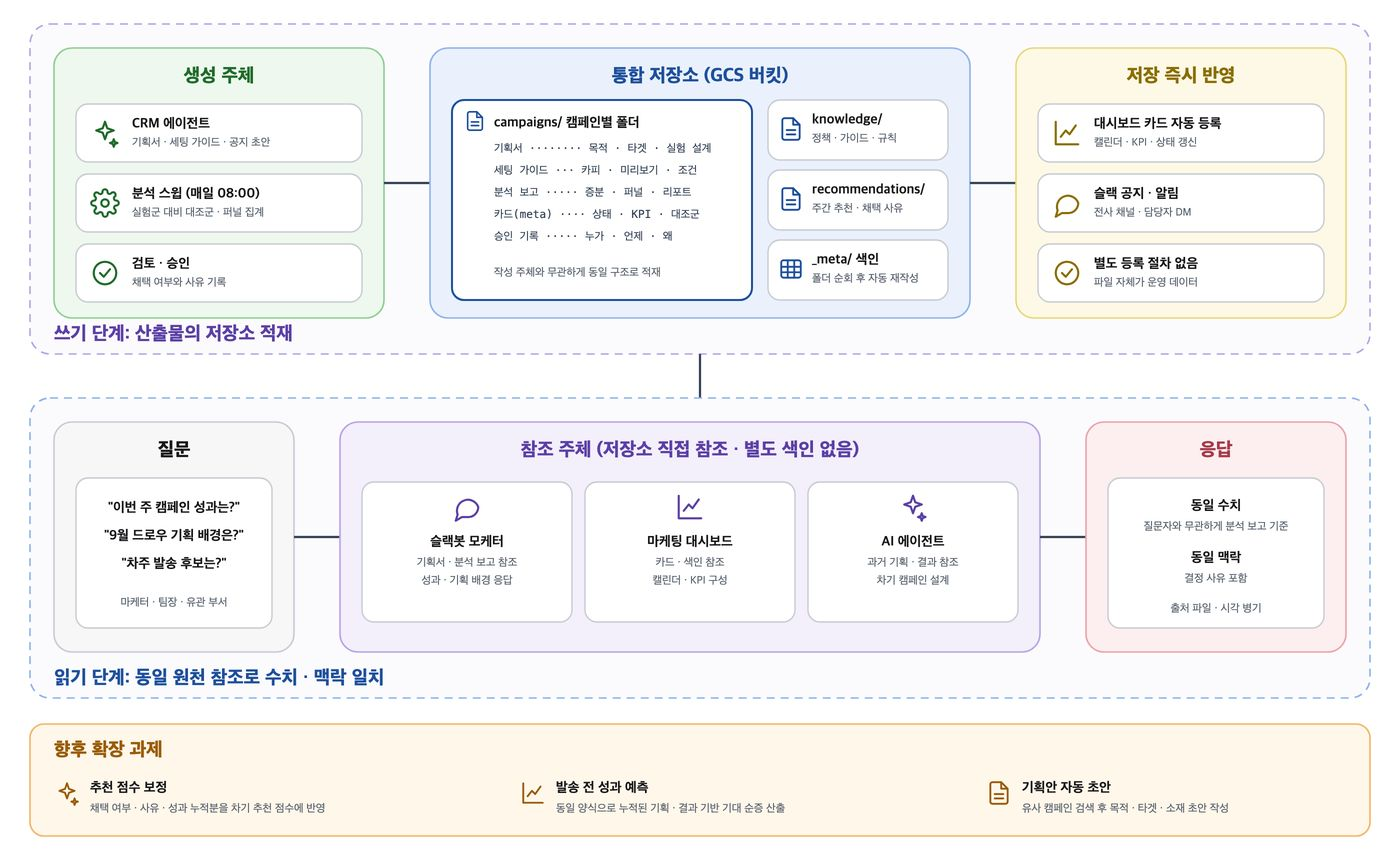
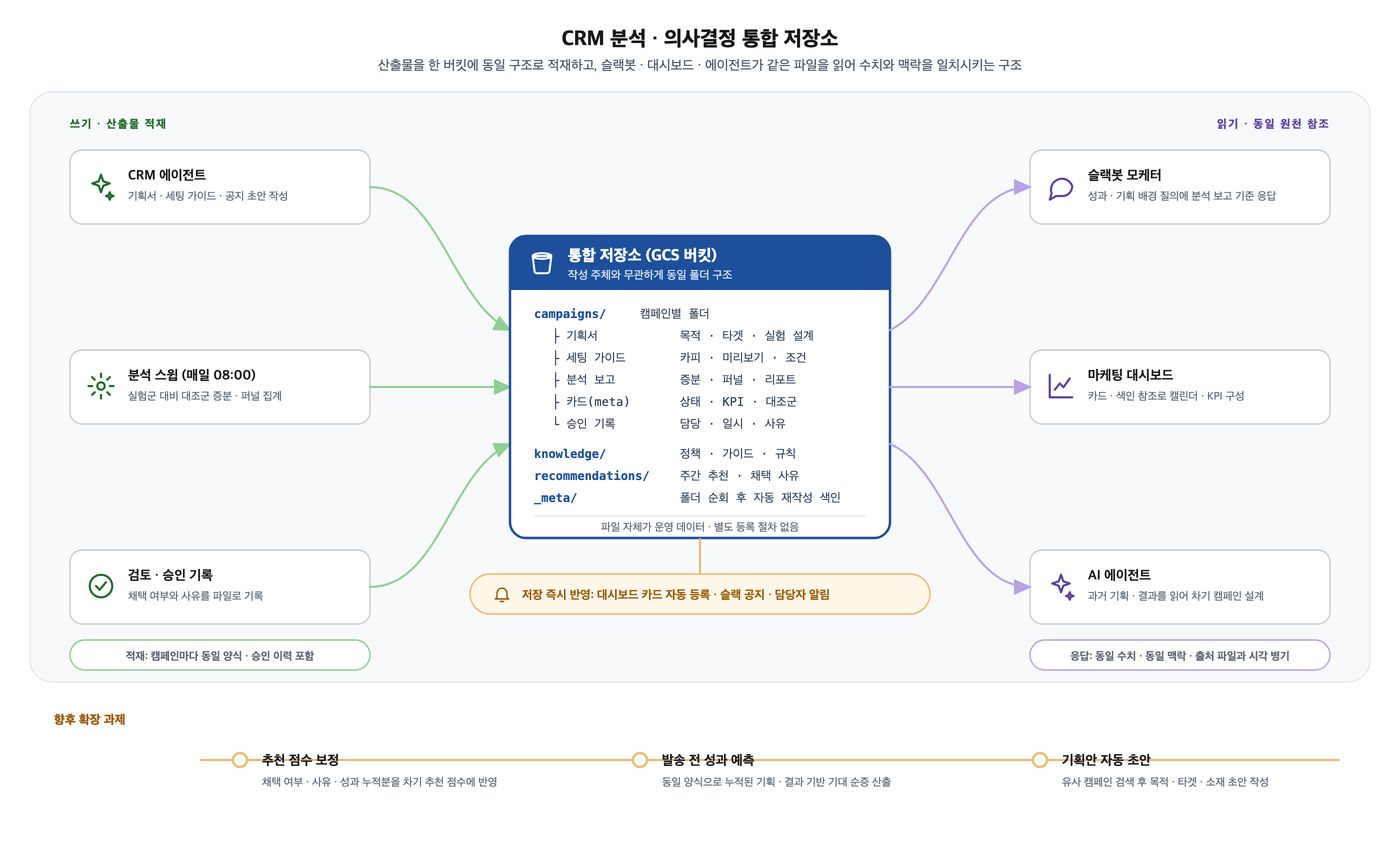
Center lead thumbnails, Tosspay card as monitoring dashboard only, hub-style storage figure, single adopted recommendation (Hangul Day) in dashboard

diff --git a/index.html b/index.html
@@ -208,7 +208,7 @@
 </div>
 <div class="viz-wrap">
   <button class="nav-btn" id="fn-decisionToggle" data-section="decision">데이터 분석 <span class="caret">&#9662;</span></button>
-  <div class="viz-dropdown" id="fn-decisionDropdown"><div class="vd-panel"><div class="vd-group">캠페인 효과 측정</div><a class="vd-item" data-target="dc-causal">인과추론 기반 본부 액션별 순효과 측정</a><a class="vd-item" data-target="dc-impact">고수요 외부이벤트 영향도 분석 표준</a><a class="vd-item" data-target="dc-moketer">대화형 슬랙봇 &#x27;모케터&#x27;</a><a class="vd-item" data-target="dc-dashboard">CRM 캠페인 대시보드 (마케팅 허브)</a><div class="vd-group">유저 행동 분석</div><a class="vd-item" data-target="project1a">미결제/결제 유저군 간 접속횟수 비교분석</a><a class="vd-item" data-target="project1b">미결제/결제 유저군 간 행동 데이터 비교분석</a><a class="vd-item" data-target="project1c">검색장소 인근 구매가능 주차장 분석</a><div class="vd-group">영업 관리 분석</div><a class="vd-item" data-target="project2a">영업관리 프로세스 구축</a><a class="vd-item" data-target="project2b">통합 데이터셋 구축 및 액션 매트릭스 수립</a><a class="vd-item" data-target="project2c">액션제안 및 모니터링 대시보드 제작</a><a class="vd-item" data-target="project2d">액션제안 대시보드 1차 고도화</a><a class="vd-item" data-target="project2e">액션제안 대시보드 2차 고도화</a><div class="vd-group">사업 기획 분석</div><a class="vd-item" data-target="project3a">첫결제 프로모션 쿠폰 최적 지급조건 설계</a><a class="vd-item" data-target="project3b">신규주차장 사업계획 달성 시나리오 도출</a><a class="vd-item" data-target="project3c">통계 기반 클릭/거래 이상치 탐지 및 원인 분석</a><a class="vd-item" data-target="dc-forecast">연휴 거래액·MAU 예측과 실적 검증</a><a class="vd-item" data-target="dc-tosspay">토스페이 도입 성과 측정과 결제 모니터링</a></div></div>
+  <div class="viz-dropdown" id="fn-decisionDropdown"><div class="vd-panel"><div class="vd-group">캠페인 효과 측정</div><a class="vd-item" data-target="dc-causal">인과추론 기반 본부 액션별 순효과 측정</a><a class="vd-item" data-target="dc-impact">고수요 외부이벤트 영향도 분석 표준</a><a class="vd-item" data-target="dc-moketer">대화형 슬랙봇 &#x27;모케터&#x27;</a><a class="vd-item" data-target="dc-dashboard">CRM 캠페인 대시보드 (마케팅 허브)</a><div class="vd-group">유저 행동 분석</div><a class="vd-item" data-target="project1a">미결제/결제 유저군 간 접속횟수 비교분석</a><a class="vd-item" data-target="project1b">미결제/결제 유저군 간 행동 데이터 비교분석</a><a class="vd-item" data-target="project1c">검색장소 인근 구매가능 주차장 분석</a><div class="vd-group">영업 관리 분석</div><a class="vd-item" data-target="project2a">영업관리 프로세스 구축</a><a class="vd-item" data-target="project2b">통합 데이터셋 구축 및 액션 매트릭스 수립</a><a class="vd-item" data-target="project2c">액션제안 및 모니터링 대시보드 제작</a><a class="vd-item" data-target="project2d">액션제안 대시보드 1차 고도화</a><a class="vd-item" data-target="project2e">액션제안 대시보드 2차 고도화</a><div class="vd-group">사업 기획 분석</div><a class="vd-item" data-target="project3a">첫결제 프로모션 쿠폰 최적 지급조건 설계</a><a class="vd-item" data-target="project3b">신규주차장 사업계획 달성 시나리오 도출</a><a class="vd-item" data-target="project3c">통계 기반 클릭/거래 이상치 탐지 및 원인 분석</a><a class="vd-item" data-target="dc-forecast">연휴 거래액·MAU 예측과 실적 검증</a></div></div>
 </div>
 <div class="viz-wrap">
   <button class="nav-btn" id="fn-infraToggle" data-section="infra">데이터 인프라 <span class="caret">&#9662;</span></button>
@@ -216,7 +216,7 @@
 </div>
 <div class="viz-wrap">
   <button class="nav-btn" id="fn-vizToggle" data-section="viz">대시보드 <span class="caret">&#9662;</span></button>
-  <div class="viz-dropdown" id="fn-vizDropdown"><div class="vd-panel"><div class="vd-group">성과 추적</div><a class="vd-item" data-target="viz-draw">럭키드로우 이벤트 대시보드</a><a class="vd-item" data-target="viz-v1a">W-1(저번주) 성과예측 대시보드</a><a class="vd-item" data-target="viz-v1b">마케팅 실적 리포트</a><a class="vd-item" data-target="viz-v1c">공유주차 서비스 자치구별 실적 대시보드</a><div class="vd-group">공급 관리</div><a class="vd-item" data-target="viz-v2a">제휴일반 대시보드</a><a class="vd-item" data-target="viz-v2b">판매중단 시설관리 대시보드</a><a class="vd-item" data-target="viz-v2c">장기권 슬롯관리 대시보드</a><div class="vd-group">유저 분석</div><a class="vd-item" data-target="viz-v3a">퍼널 대시보드</a><a class="vd-item" data-target="viz-v3b">신규가입유저 코호트 분석 리포트</a><a class="vd-item" data-target="viz-v3c-tab">미결제 유저 검색수요 지리공간 분석</a><a class="vd-item" data-target="viz-v3c">여의도 불꽃축제 동적 수요지도</a></div></div>
+  <div class="viz-dropdown" id="fn-vizDropdown"><div class="vd-panel"><div class="vd-group">성과 추적</div><a class="vd-item" data-target="viz-draw">럭키드로우 이벤트 대시보드</a><a class="vd-item" data-target="viz-tosspay">토스페이 결제 모니터링 대시보드</a><a class="vd-item" data-target="viz-v1a">W-1(저번주) 성과예측 대시보드</a><a class="vd-item" data-target="viz-v1b">마케팅 실적 리포트</a><a class="vd-item" data-target="viz-v1c">공유주차 서비스 자치구별 실적 대시보드</a><div class="vd-group">공급 관리</div><a class="vd-item" data-target="viz-v2a">제휴일반 대시보드</a><a class="vd-item" data-target="viz-v2b">판매중단 시설관리 대시보드</a><a class="vd-item" data-target="viz-v2c">장기권 슬롯관리 대시보드</a><div class="vd-group">유저 분석</div><a class="vd-item" data-target="viz-v3a">퍼널 대시보드</a><a class="vd-item" data-target="viz-v3b">신규가입유저 코호트 분석 리포트</a><a class="vd-item" data-target="viz-v3c-tab">미결제 유저 검색수요 지리공간 분석</a><a class="vd-item" data-target="viz-v3c">여의도 불꽃축제 동적 수요지도</a></div></div>
 </div>
   <div class="fn-sep"></div>
   <button class="fn-search" id="searchToggle" title="검색 (Ctrl+K)">
@@ -433,7 +433,7 @@
     <div class="card-summary"><div class="sum-row"><span class="sum-label">목적</span><span class="sum-value">상품제안 대상 주차장 포함 상권의 종합적 분석자료 제공으로 제안 수용률 극대화</span></div><div class="sum-row"><span class="sum-label">결과</span><span class="sum-value">상권·주차장·유저행동·매출 현황을 한 화면에서 확인 가능한 종합 분석 대시보드 완성</span></div></div>
   </div>
 </article></div></div>
-<div class="part"><div class="part-head"><h3 class="part-title">사업 기획 분석</h3><span class="part-count">5</span></div><p class="part-desc">쿠폰 지급 조건 설계, 사업계획 달성 시나리오, 이상치 탐지 등 의사결정용 시뮬레이션과 통계 분석</p>
+<div class="part"><div class="part-head"><h3 class="part-title">사업 기획 분석</h3><span class="part-count">4</span></div><p class="part-desc">쿠폰 지급 조건 설계, 사업계획 달성 시나리오, 이상치 탐지 등 의사결정용 시뮬레이션과 통계 분석</p>
 <div class="grid"><article class="card" id="project3a" data-sec="데이터 분석" data-part="사업 기획 분석" data-title="첫결제 프로모션 쿠폰 최적 지급조건 설계" data-year="2025">
   <div class="thumb" data-srcs="portfolio_images/full/notion_12.jpg" data-caps="첫결제분석: 가입후시간 Simulation" onclick="openLightbox(this)"><img src="portfolio_images/thumbs/notion_12.jpg" alt="첫결제 프로모션 쿠폰 최적 지급조건 설계" loading="lazy"><div class="thumb-cap">첫결제분석: 가입후시간 Simulation</div></div>
   <div class="card-body">
@@ -464,14 +464,6 @@
     <div class="card-meta"><span class="tag-year new">2026</span><span class="tag-tool">BigQuery · 캘린더 회귀모델</span></div>
     <h3 class="card-title">연휴 거래액·MAU 예측과 실적 검증</h3>
     <div class="card-summary"><div class="sum-row"><span class="sum-label">목적</span><span class="sum-value">추석 이동·징검다리 연휴에 따른 9·10월 실적 하락 리스크의 사전 진단과 대응책 수립</span></div><div class="sum-row"><span class="sum-label">결과</span><span class="sum-value">캘린더 회귀모델로 일자별 거래액·MAU를 예측하고 연휴 종료 후 실적과 대조하여 추석 주간 거래액 오차 0.2%로 예측 정확도 검증</span></div></div>
-  </div>
-</article>
-<article class="card" id="dc-tosspay" data-sec="데이터 분석" data-part="사업 기획 분석" data-title="토스페이 도입 성과 측정과 결제 모니터링" data-year="2026">
-  <div class="thumb" data-srcs="portfolio_images/full/notion_2026_tosspay_report.jpg|portfolio_images/full/notion_2026_tosspay_monitor.jpg" data-caps="토스페이 도입 성과 리포트: 36일 누적 절감액과 월 절감 페이스|토스페이 결제 모니터링: 결제수단별 거래건수와 토스페이 비중 추이" onclick="openLightbox(this)"><img src="portfolio_images/thumbs/notion_2026_tosspay_report.jpg" alt="토스페이 도입 성과 측정과 결제 모니터링" loading="lazy"><span class="thumb-count">2장</span><div class="thumb-cap">토스페이 도입 성과 리포트: 36일 누적 절감액과 월 절감 페이스</div></div>
-  <div class="card-body">
-    <div class="card-meta"><span class="tag-year new">2026</span><span class="tag-tool">BigQuery · Vega-Lite</span></div>
-    <h3 class="card-title">토스페이 도입 성과 측정과 결제 모니터링</h3>
-    <div class="card-summary"><div class="sum-row"><span class="sum-label">목적</span><span class="sum-value">간편결제 수단 추가에 따른 PG 수수료 절감 효과 측정과 결제수단 전환 추이 상시 관찰</span></div><div class="sum-row"><span class="sum-label">결과</span><span class="sum-value">대체 결제수단 요율 비교로 도입 36일 절감액을 추정하고 전체 가중 요율 변화로 교차 검증, 일별 자동 갱신 모니터링 대시보드 운영</span></div></div>
   </div>
 </article></div></div>
 </section>
@@ -507,13 +499,21 @@
 
 <section class="sec" id="viz" data-sec="viz" style="--sc:#7c3aed">
 <div class="sec-head"><div class="sec-label" style="color:#7c3aed">대시보드</div><h2 class="sec-title">Visualization</h2></div>
-<div class="part"><div class="part-head"><h3 class="part-title">성과 추적</h3><span class="part-count">4</span></div><p class="part-desc">주차장·마케팅·자치구 실적을 자동 집계해 매주 보는 Looker Studio 대시보드</p>
+<div class="part"><div class="part-head"><h3 class="part-title">성과 추적</h3><span class="part-count">5</span></div><p class="part-desc">주차장·마케팅·자치구 실적을 자동 집계해 매주 보는 Looker Studio 대시보드</p>
 <div class="grid"><article class="card" id="viz-draw" data-sec="대시보드" data-part="성과 추적" data-title="럭키드로우 이벤트 대시보드" data-year="2026">
   <div class="thumb" data-srcs="portfolio_images/full/notion_2026_draw_dashboard.jpg|portfolio_images/full/notion_2026_draw_logging.jpg|portfolio_images/full/notion_2026_draw_taxonomy.jpg" data-caps="럭키드로우 이벤트 대시보드: 방문·참여·응모 유저수와 유입 경로|드로우 이벤트 GA 로깅 검증: 이벤트 9종 설계값 대조|드로우 이벤트 GA 텍소노미 설계안" onclick="openLightbox(this)"><img src="portfolio_images/thumbs/notion_2026_draw_dashboard.jpg" alt="럭키드로우 이벤트 대시보드" loading="lazy"><span class="thumb-count">3장</span><div class="thumb-cap">럭키드로우 이벤트 대시보드: 방문·참여·응모 유저수와 유입 경로</div></div>
   <div class="card-body">
     <div class="card-meta"><span class="tag-year new">2026</span><span class="tag-tool">GA4 · Vega-Lite · Cloud Run</span></div>
     <h3 class="card-title">럭키드로우 이벤트 대시보드</h3>
     <div class="card-summary"><div class="sum-row"><span class="sum-label">목적</span><span class="sum-value">이벤트 진입·참여·응모 퍼널과 미션별 완료 현황의 일별 추적</span></div><div class="sum-row"><span class="sum-label">결과</span><span class="sum-value">GA 이벤트 설계·로깅 검증을 선행하여 유입 경로별 퍼널과 동의 모달 위치 변경 전후 비교를 5분 주기 자동 갱신 대시보드로 제공</span></div></div>
+  </div>
+</article>
+<article class="card" id="viz-tosspay" data-sec="대시보드" data-part="성과 추적" data-title="토스페이 결제 모니터링 대시보드" data-year="2026">
+  <div class="thumb" data-srcs="portfolio_images/full/notion_2026_tosspay_monitor.jpg" data-caps="토스페이 결제 모니터링: 결제수단별 거래건수와 토스페이 비중 추이" onclick="openLightbox(this)"><img src="portfolio_images/thumbs/notion_2026_tosspay_monitor.jpg" alt="토스페이 결제 모니터링 대시보드" loading="lazy"><div class="thumb-cap">토스페이 결제 모니터링: 결제수단별 거래건수와 토스페이 비중 추이</div></div>
+  <div class="card-body">
+    <div class="card-meta"><span class="tag-year new">2026</span><span class="tag-tool">BigQuery · Vega-Lite · Cloud Run</span></div>
+    <h3 class="card-title">토스페이 결제 모니터링 대시보드</h3>
+    <div class="card-summary"><div class="sum-row"><span class="sum-label">목적</span><span class="sum-value">토스페이 도입 후 결제수단 전환 추이와 간편결제 내 비중 목표 달성의 상시 관찰</span></div><div class="sum-row"><span class="sum-label">결과</span><span class="sum-value">결제수단별 거래건수·토스페이 비중·결제자 구성·직전 결제수단을 일별 자동 갱신 대시보드로 제공</span></div></div>
   </div>
 </article>
 <article class="card" id="viz-v1a" data-sec="대시보드" data-part="성과 추적" data-title="W-1(저번주) 성과예측 대시보드" data-year="2025">

diff --git a/build/diagrams/gcs_hub.html b/build/diagrams/gcs_hub.html
@@ -1,0 +1,110 @@
+<!DOCTYPE html>
+<html lang="ko"><head><meta charset="UTF-8"><title>통합 저장소 허브 구성도</title>
+<style>
+  html,body{overflow-x:hidden;margin:0;background:#fff}
+  td{white-space:nowrap}
+  body{font-family:'Pretendard Variable','Noto Sans KR',-apple-system,sans-serif}
+  svg{display:block}
+  .bt{font-size:21px;font-weight:800;fill:#18181b}
+  .bs{font-size:13.5px;fill:#4b5563}
+  .canvas{fill:#f8f9fb;stroke:#e3e6ea;stroke-width:1.2;rx:22}
+  .hub{fill:#fff;stroke:#1d4f9c;stroke-width:2.4;rx:16}
+  .hubhead{fill:#1d4f9c;rx:16}
+  .hubt{font-size:16px;font-weight:800;fill:#fff}
+  .hubs{font-size:11.5px;fill:#dbe7fb}
+  .tree{font-family:'SF Mono',Menlo,monospace;font-size:12px;fill:#334155}
+  .tree.k{fill:#1d4f9c;font-weight:700}
+  .node{fill:#fff;stroke:#c9ccd3;stroke-width:1.4;rx:12}
+  .nt{font-size:13.5px;font-weight:700;fill:#18181b}
+  .ns{font-size:11px;fill:#5b6470}
+  .side{font-size:11.5px;font-weight:800;letter-spacing:.12em;fill:#6b7280}
+  .side.w{fill:#1f6b2a}.side.r{fill:#5b3fa6}
+  .curve{fill:none;stroke-width:2;stroke-linecap:round}
+  .curve.w{stroke:#8fcf93;marker-end:url(#tri-g)}
+  .curve.r{stroke:#b9a3e6;marker-end:url(#tri-p)}
+  .pill{fill:#fff7ea;stroke:#f3b56a;stroke-width:1.4;rx:20}
+  .pillt{font-size:12px;font-weight:700;fill:#9a5b06}
+  .ic{fill:none;stroke:#334155;stroke-width:1.7;stroke-linecap:round;stroke-linejoin:round}
+  .ic.g{stroke:#1f6b2a}.ic.p{stroke:#5b3fa6}.ic.o{stroke:#9a5b06}.ic.w{stroke:#fff}
+  .tl{stroke:#f3b56a;stroke-width:2}
+  .dot{fill:#fff;stroke:#f3b56a;stroke-width:2.2}
+  .tlt{font-size:12.5px;font-weight:800;fill:#9a5b06}
+  .tlh{font-size:13.5px;font-weight:700;fill:#18181b}
+  .tls{font-size:11px;fill:#5b6470}
+</style></head>
+<body>
+<svg width="1400" height="860" viewBox="0 0 1400 860" xmlns="http://www.w3.org/2000/svg">
+  <defs>
+    <marker id="tri-g" markerWidth="10" markerHeight="10" refX="8" refY="5" orient="auto"><path d="M0,1 L9,5 L0,9 z" fill="#8fcf93"/></marker>
+    <marker id="tri-p" markerWidth="10" markerHeight="10" refX="8" refY="5" orient="auto"><path d="M0,1 L9,5 L0,9 z" fill="#b9a3e6"/></marker>
+    <symbol id="i-spark" viewBox="0 0 24 24"><path d="M12 3l1.8 5.2L19 10l-5.2 1.8L12 17l-1.8-5.2L5 10l5.2-1.8z"/><path d="M19 17l.8 2.2L22 20l-2.2.8L19 23l-.8-2.2L16 20l2.2-.8z"/></symbol>
+    <symbol id="i-gear" viewBox="0 0 24 24"><circle cx="12" cy="12" r="3"/><path d="M12 2v3M12 19v3M2 12h3M19 12h3M4.9 4.9l2.1 2.1M17 17l2.1 2.1M4.9 19.1L7 17M17 7l2.1-2.1"/></symbol>
+    <symbol id="i-check" viewBox="0 0 24 24"><circle cx="12" cy="12" r="9"/><path d="M8 12l3 3 5-6"/></symbol>
+    <symbol id="i-chat" viewBox="0 0 24 24"><path d="M21 12a8 8 0 0 1-8 8H8l-5 3 1.5-5A8 8 0 1 1 21 12z"/></symbol>
+    <symbol id="i-chart" viewBox="0 0 24 24"><path d="M3 3v18h18"/><path d="M7 15l4-5 3 3 5-7"/></symbol>
+    <symbol id="i-doc" viewBox="0 0 24 24"><path d="M14 2H6a2 2 0 0 0-2 2v16a2 2 0 0 0 2 2h12a2 2 0 0 0 2-2V8z"/><path d="M14 2v6h6"/><path d="M8 13h8M8 17h8"/></symbol>
+    <symbol id="i-bucket" viewBox="0 0 24 24"><path d="M4 6h16l-1.6 13a2 2 0 0 1-2 1.8H7.6a2 2 0 0 1-2-1.8z"/><ellipse cx="12" cy="6" rx="8" ry="2.5"/></symbol>
+    <symbol id="i-bell" viewBox="0 0 24 24"><path d="M6 16V11a6 6 0 0 1 12 0v5l2 2H4z"/><path d="M10 21h4"/></symbol>
+  </defs>
+
+  <text x="700" y="46" text-anchor="middle" class="bt">CRM 분석 · 의사결정 통합 저장소</text>
+  <text x="700" y="70" text-anchor="middle" class="bs">산출물을 한 버킷에 동일 구조로 적재하고, 슬랙봇 · 대시보드 · 에이전트가 같은 파일을 읽어 수치와 맥락을 일치시키는 구조</text>
+
+  <rect x="30" y="92" width="1340" height="590" class="canvas"/>
+
+  <!-- 왼쪽: 쓰기 주체 -->
+  <text x="70" y="128" class="side w">쓰기 · 산출물 적재</text>
+  <rect x="70" y="150" width="300" height="74" class="node"/><use href="#i-spark" x="86" y="171" width="30" height="30" class="ic g"/><text x="128" y="180" class="nt">CRM 에이전트</text><text x="128" y="200" class="ns">기획서 · 세팅 가이드 · 공지 초안 작성</text>
+  <rect x="70" y="350" width="300" height="74" class="node"/><use href="#i-gear" x="86" y="371" width="30" height="30" class="ic g"/><text x="128" y="380" class="nt">분석 스윕 (매일 08:00)</text><text x="128" y="400" class="ns">실험군 대비 대조군 증분 · 퍼널 집계</text>
+  <rect x="70" y="550" width="300" height="74" class="node"/><use href="#i-check" x="86" y="571" width="30" height="30" class="ic g"/><text x="128" y="580" class="nt">검토 · 승인 기록</text><text x="128" y="600" class="ns">채택 여부와 사유를 파일로 기록</text>
+  <path d="M370,187 C440,187 450,300 510,330" class="curve w"/>
+  <path d="M370,387 L510,387" class="curve w"/>
+  <path d="M370,587 C440,587 450,470 510,444" class="curve w"/>
+
+  <!-- 중앙: 허브 -->
+  <rect x="510" y="236" width="380" height="302" class="hub"/>
+  <rect x="510" y="236" width="380" height="54" class="hubhead"/>
+  <rect x="510" y="272" width="380" height="18" fill="#1d4f9c"/>
+  <use href="#i-bucket" x="528" y="249" width="28" height="28" class="ic w"/>
+  <text x="568" y="261" class="hubt">통합 저장소 (GCS 버킷)</text><text x="568" y="279" class="hubs">작성 주체와 무관하게 동일 폴더 구조</text>
+  <text x="534" y="318" class="tree k">campaigns/</text><text x="640" y="318" class="tree">캠페인별 폴더</text>
+  <text x="552" y="340" class="tree">├ 기획서</text><text x="680" y="340" class="tree">목적 · 타겟 · 실험 설계</text>
+  <text x="552" y="362" class="tree">├ 세팅 가이드</text><text x="680" y="362" class="tree">카피 · 미리보기 · 조건</text>
+  <text x="552" y="384" class="tree">├ 분석 보고</text><text x="680" y="384" class="tree">증분 · 퍼널 · 리포트</text>
+  <text x="552" y="406" class="tree">├ 카드(meta)</text><text x="680" y="406" class="tree">상태 · KPI · 대조군</text>
+  <text x="552" y="428" class="tree">└ 승인 기록</text><text x="680" y="428" class="tree">담당 · 일시 · 사유</text>
+  <text x="534" y="458" class="tree k">knowledge/</text><text x="680" y="458" class="tree">정책 · 가이드 · 규칙</text>
+  <text x="534" y="480" class="tree k">recommendations/</text><text x="680" y="480" class="tree">주간 추천 · 채택 사유</text>
+  <text x="534" y="502" class="tree k">_meta/</text><text x="680" y="502" class="tree">폴더 순회 후 자동 재작성 색인</text>
+  <line x1="534" y1="516" x2="866" y2="516" stroke="#e3e6ea"/>
+  <text x="700" y="531" text-anchor="middle" class="ns">파일 자체가 운영 데이터 · 별도 등록 절차 없음</text>
+
+  <!-- 허브 아래: 저장 즉시 반영 -->
+  <path d="M700,538 L700,574" fill="none" stroke="#f3b56a" stroke-width="2"/>
+  <rect x="470" y="574" width="460" height="40" class="pill"/>
+  <use href="#i-bell" x="492" y="584" width="20" height="20" class="ic o"/>
+  <text x="522" y="599" class="pillt">저장 즉시 반영: 대시보드 카드 자동 등록 · 슬랙 공지 · 담당자 알림</text>
+
+  <!-- 오른쪽: 읽기 주체 -->
+  <text x="1330" y="128" text-anchor="end" class="side r">읽기 · 동일 원천 참조</text>
+  <rect x="1030" y="150" width="300" height="74" class="node"/><use href="#i-chat" x="1046" y="171" width="30" height="30" class="ic p"/><text x="1088" y="180" class="nt">슬랙봇 모케터</text><text x="1088" y="200" class="ns">성과 · 기획 배경 질의에 분석 보고 기준 응답</text>
+  <rect x="1030" y="350" width="300" height="74" class="node"/><use href="#i-chart" x="1046" y="371" width="30" height="30" class="ic p"/><text x="1088" y="380" class="nt">마케팅 대시보드</text><text x="1088" y="400" class="ns">카드 · 색인 참조로 캘린더 · KPI 구성</text>
+  <rect x="1030" y="550" width="300" height="74" class="node"/><use href="#i-spark" x="1046" y="571" width="30" height="30" class="ic p"/><text x="1088" y="580" class="nt">AI 에이전트</text><text x="1088" y="600" class="ns">과거 기획 · 결과를 읽어 차기 캠페인 설계</text>
+  <path d="M890,330 C950,300 960,187 1030,187" class="curve r"/>
+  <path d="M890,387 L1030,387" class="curve r"/>
+  <path d="M890,444 C950,470 960,587 1030,587" class="curve r"/>
+
+  <!-- 응답 품질 -->
+  <rect x="1030" y="640" width="300" height="30" rx="15" fill="#fff" stroke="#b9a3e6" stroke-width="1.4"/>
+  <text x="1180" y="660" text-anchor="middle" class="ns" font-weight="700">응답: 동일 수치 · 동일 맥락 · 출처 파일과 시각 병기</text>
+  <rect x="70" y="640" width="300" height="30" rx="15" fill="#fff" stroke="#8fcf93" stroke-width="1.4"/>
+  <text x="220" y="660" text-anchor="middle" class="ns" font-weight="700">적재: 캠페인마다 동일 양식 · 승인 이력 포함</text>
+
+  <!-- 하단: 향후 확장 타임라인 -->
+  <text x="54" y="724" class="tlt">향후 확장 과제</text>
+  <line x1="200" y1="760" x2="1340" y2="760" class="tl"/>
+  <circle cx="240" cy="760" r="7" class="dot"/><text x="262" y="765" class="tlh">추천 점수 보정</text><text x="262" y="786" class="tls">채택 여부 · 사유 · 성과 누적분을 차기 추천 점수에 반영</text>
+  <circle cx="640" cy="760" r="7" class="dot"/><text x="662" y="765" class="tlh">발송 전 성과 예측</text><text x="662" y="786" class="tls">동일 양식으로 누적된 기획 · 결과 기반 기대 순증 산출</text>
+  <circle cx="1040" cy="760" r="7" class="dot"/><text x="1062" y="765" class="tlh">기획안 자동 초안</text><text x="1062" y="786" class="tls">유사 캠페인 검색 후 목적 · 타겟 · 소재 초안 작성</text>
+</svg>
+</body></html>

diff --git a/demos/crm-dashboard.html b/demos/crm-dashboard.html
@@ -211,12 +211,12 @@ const CONVERSION = {
   c2609:{_meta:{conversion_basis:'발송 +3h · BigQuery 기준',generated_at:'2026-09-02T08:00:00+09:00'},send:{total:{sent:1061627,delivered:991812,delivered_rate:0.9342,clicks:5214,click_rate:0.0049},ios:{sent:466100,delivered_rate:0.9433,click_rate:0.0057},android:{sent:595527,delivered_rate:0.9271,click_rate:0.0043}},audience:{tg_entry:1061627,cg_entry:0,entry_label:'발송 대상'},funnel:[{event:'session_start',label:'세션 시작',tg_count:112530,tg_rate:0.106},{event:'pin_click',label:'주차장 핀 클릭',tg_count:29725,tg_rate:0.028},{event:'order_complete',label:'구매 완료',tg_count:3396,tg_rate:0.0032}]},
   c2610:{_meta:{conversion_basis:'발송 +24h · BigQuery 기준',generated_at:'2026-09-19T08:00:00+09:00'},send:{total:{sent:107021,delivered:106388,delivered_rate:0.9941,clicks:1926,click_rate:0.018},ios:{sent:47100,delivered_rate:0.9952,click_rate:0.019},android:{sent:59921,delivered_rate:0.9932,click_rate:0.017}},audience:{tg_entry:107021,cg_entry:11891,entry_label:'발송 대상'},funnel:[{event:'session_start',label:'세션 시작',tg_count:9846,tg_rate:0.092,cg_count:892,cg_rate:0.075,pp_diff:1.7,significant:true},{event:'pin_click',label:'주차장 핀 클릭',tg_count:3317,tg_rate:0.031,cg_count:262,cg_rate:0.022,pp_diff:0.9,significant:true},{event:'order_complete',label:'구매 완료',tg_count:642,tg_rate:0.006,cg_count:36,cg_rate:0.003,pp_diff:0.3,significant:true}]},
 };
-const RECO = {year:2026,week:40,period:'2026-09-28 ~ 2026-10-04',holidays:{'2026-10-03':'개천절'},candidates:[
-  {id:'r1',kind:'시즌',title:'10월 위클리특가 재방문 유도',channel:'앱푸시',send_date:'2026-09-30',audience:'타겟',composite:13,reach:'상',demand:'상',landing:'상',partner:'중',repeat:'상',axis_summary:'최근 8주 결제자 18만명 · 검색량 전주 대비 +12%',repeat_evidence:'9월 동일 캠페인 세션 순증 +3,075',decision:'adopted',scheduled:true,reason:'예약 발송 세팅 완료'},
-  {id:'r2',kind:'공휴일',title:'추석 연휴 주차 안내',channel:'앱푸시',send_date:'2026-10-02',audience:'전체',composite:11,reach:'상',demand:'중',landing:'상',partner:'하',repeat:'중',axis_summary:'연휴 전 이동 수요 · 작년 동일 캠페인 오픈율 8.1%',decision:'adopted',scheduled:true,reason:'연휴 전날 오전 발송'},
-  {id:'r3',kind:'제휴',title:'가을 축제 주차권 사전예매',channel:'인앱 메시지',send_date:'2026-10-01',audience:'타겟',composite:9,reach:'중',demand:'상',landing:'중',partner:'상',repeat:'하',axis_summary:'축제 장소명 검색 급증 · 제휴 주차장 3곳 확보',decision:null,reason:''},
-  {id:'r4',kind:'리텐션',title:'이탈 직전 회원 쿠폰 리마인드',channel:'SMS',send_date:'2026-09-29',audience:'타겟',composite:7,reach:'중',demand:'하',landing:'중',partner:'하',repeat:'중',axis_summary:'이탈직전·앱접속 17.8만명 1순위 개입 대상',decision:null,reason:''},
-  {id:'r5',kind:'공지',title:'앱 업데이트 안내 (결제 화면 개편)',channel:'앱푸시',send_date:'2026-10-04',audience:'전체',composite:5,reach:'상',demand:'하',landing:'하',partner:'하',repeat:'하',axis_summary:'전환 목표 없음 · 공지 성격',decision:'rejected',reason:'인앱 공지로 대체'},
+const RECO = {year:2026,week:41,period:'2026-10-05 ~ 2026-10-11',holidays:{'2026-10-05':'대체공휴일','2026-10-09':'한글날'},candidates:[
+  {id:'r1',kind:'공휴일',title:'한글날 연휴 나들이 주차 안내',channel:'앱푸시',send_date:'2026-10-08',audience:'전체',composite:12,reach:'상',demand:'상',landing:'상',partner:'중',repeat:'중',axis_summary:'연휴 전 이동 수요 · 작년 동일 캠페인 오픈율 8.1%',repeat_evidence:'추석 연휴 안내 세션 순증 +2,140',decision:'adopted',reason:'연휴 전날 오전 발송 · 전체 대상'},
+  {id:'r2',kind:'행사',title:'자라섬 재즈 페스티벌 주차권 사전예매',channel:'인앱 메시지',send_date:'2026-10-07',audience:'타겟',composite:9,reach:'중',demand:'상',landing:'중',partner:'하',repeat:'하',axis_summary:'행사 장소명 검색 급증 · 제휴 주차장 미확보',decision:'rejected',reason:'제휴 주차장 미확보'},
+  {id:'r3',kind:'행사',title:'축구 A매치 상암 주차 안내',channel:'앱푸시',send_date:'2026-10-06',audience:'타겟',composite:8,reach:'중',demand:'중',landing:'중',partner:'중',repeat:'중',axis_summary:'경기 당일 인근 탐색 평시 3배 · 단독판매 현장 1곳',decision:'rejected',reason:'단독판매 공지로 대체'},
+  {id:'r4',kind:'리텐션',title:'이탈 직전 회원 쿠폰 리마인드',channel:'SMS',send_date:'2026-10-06',audience:'타겟',composite:7,reach:'중',demand:'하',landing:'중',partner:'하',repeat:'중',axis_summary:'이탈직전·앱접속 17.8만명 1순위 개입 대상',decision:'rejected',reason:'차주 정규 발송으로 이관'},
+  {id:'r5',kind:'공지',title:'앱 업데이트 안내 (결제 화면 개편)',channel:'앱푸시',send_date:'2026-10-11',audience:'전체',composite:5,reach:'상',demand:'하',landing:'하',partner:'하',repeat:'하',axis_summary:'전환 목표 없음 · 공지 성격',decision:'rejected',reason:'인앱 공지로 대체'},
 ]};
 // 배너 레지스트리
 const REG = {
@@ -433,7 +433,7 @@ function renderAnalysis(c){const j=CONVERSION[c.id];if(!j)return analysisPending
   }
   function openReasonModal(cid){const cand=RECO.candidates.find(x=>x.id===cid);let m=$('wr-reason-modal');if(!m){m=document.createElement('div');m.id='wr-reason-modal';m.style.cssText='position:fixed;inset:0;z-index:10000;background:rgba(15,23,42,.45);display:none;align-items:center;justify-content:center;padding:16px';m.innerHTML='<div style="background:#fff;border-radius:14px;max-width:460px;width:100%;box-shadow:0 20px 50px rgba(16,24,40,.25);padding:20px 22px"><div id="wrm-title" style="font-size:15px;font-weight:700;color:#1e293b;margin-bottom:3px"></div><div id="wrm-sub" style="font-size:12px;color:#94a3b8;margin-bottom:12px"></div><textarea id="wrm-text" rows="4" placeholder="이 결정의 판단 근거를 적어주세요" style="width:100%;border:1px solid #e2e8f0;border-radius:8px;padding:10px;font:inherit;font-size:13px;resize:vertical"></textarea><div style="display:flex;justify-content:flex-end;gap:8px;margin-top:14px"><button id="wrm-cancel" type="button" style="border:1px solid #e2e8f0;background:#fff;color:#64748b;border-radius:8px;padding:7px 15px;font-size:13px;cursor:pointer">취소</button><button id="wrm-save" type="button" style="border:1px solid #2563eb;background:#2563eb;color:#fff;border-radius:8px;padding:7px 15px;font-size:13px;font-weight:600;cursor:pointer">저장</button></div></div>';document.body.appendChild(m);m.addEventListener('click',e=>{if(e.target===m)m.style.display='none'});$('wrm-cancel').addEventListener('click',()=>m.style.display='none');$('wrm-save').addEventListener('click',()=>{const c=RECO.candidates.find(x=>x.id===m.dataset.id);c.reason=$('wrm-text').value.trim();renderTable();m.style.display='none'})}m.dataset.id=cid;const dec=cand.decision==='adopted'?'채택':(cand.decision==='rejected'?'비채택':'미결정');$('wrm-title').textContent='판단 근거 — '+cand.title;$('wrm-sub').textContent='결정: '+dec+'  ·  체험판에서는 새로고침하면 초기화됩니다';$('wrm-text').value=cand.reason||'';m.style.display='flex';setTimeout(()=>$('wrm-text').focus(),30)}
   function syncPlanCard(){for(let i=CAMPAIGNS.length-1;i>=0;i--)if(CAMPAIGNS[i]._reco)CAMPAIGNS.splice(i,1);RECO.candidates.forEach(c=>{if(c.decision!=='adopted'||c.scheduled||c.executed)return;const sd=new Date(c.send_date+'T00:00:00');CAMPAIGNS.push({id:'reco:'+c.id,name:c.title,status:'기획중',sendDate:c.send_date,endDate:c.send_date,sendDateObj:sd,endDateObj:sd,sendStartObj:sd,year:RECO.year,week:RECO.week,type:'Promo',target:c.audience,medium:c.channel,owner:'',_reco:true})});renderCategoryBoard()}
-  window.initReco=function(){$('weekly-reco').style.display='block';$('wr-sub').textContent=RECO.period+' · 종합점수에 마우스를 올리면 평가 5축·점수 근거가 보입니다 · ✓채택/✕비채택을 눌러 결정하세요';$('wr-title').addEventListener('click',()=>{collapsed=!collapsed;applyCollapse()});syncPlanCard();renderTable();renderCal();applyCollapse()};
+  window.initReco=function(){$('weekly-reco').style.display='block';collapsed=allDecided();$('wr-sub').textContent=RECO.period+' · 종합점수에 마우스를 올리면 평가 5축·점수 근거가 보입니다 · ✓채택/✕비채택을 눌러 결정하세요';$('wr-title').addEventListener('click',()=>{collapsed=!collapsed;applyCollapse()});syncPlanCard();renderTable();renderCal();applyCollapse()};
 })();
 
 // ═══════════ 앱 배너 운영 ═══════════

diff --git a/build/build_index.py b/build/build_index.py
@@ -16,10 +16,10 @@ FULL = "portfolio_images/full"
 # 썸네일 규칙. 기본(auto): 원본이 세로로 길지 않으면(높이/폭 1.6 이하) 전체를 축소해 담고,
 # 세로로 길면 폭 전체의 16:10 창을 상단(또는 y 지정 위치)에서 자른다. mode로 강제할 수 있다.
 THUMB_CROP = {
-    "notion_2026_forecast_risk": {"mode": "cover", "x": 0.05, "y": 0.40, "w": 1050},
-    "notion_2026_impact_coupang": {"mode": "cover", "x": 0.06, "y": 0.26, "w": 1050},
-    "notion_2026_tosspay_report": {"mode": "cover", "x": 0.10, "y": 0.07, "w": 1120},
-    "notion_2026_draw_dashboard": {"mode": "cover", "x": 0.10, "y": 0.0, "w": 1120},
+    "notion_2026_forecast_risk": {"mode": "cover", "x": 0.178, "y": 0.40, "w": 900},
+    "notion_2026_impact_coupang": {"mode": "cover", "x": 0.17, "y": 0.26, "w": 920},
+    "notion_2026_tosspay_monitor": {"mode": "cover", "x": 0.157, "y": 0.0, "w": 960},
+    "notion_2026_draw_dashboard": {"mode": "cover", "x": 0.157, "y": 0.0, "w": 960},
     "notion_25": {"y": 0.205, "w": 3200}, "notion_17": {"y": 0.02},
 }
 
@@ -221,12 +221,6 @@ CARDS = [
          imgs=[("notion_2026_forecast_risk.png", "9·10월 연휴 실적 하락 리스크와 대응: 추석 연휴 3개년 손실률 비교"),
                ("notion_2026_forecast_model.png", "캘린더 회귀모델 검증: 명절·요일·강우 계수 재현과 백테스트"),
                ("notion_2026_forecast_actual.png", "추석 연휴 예측 대비 실적 검증: 거래액·MAU 예측과 실제 차이")]),
-    dict(id="dc-tosspay", sec="decision", part="사업 기획 분석", year="2026", tool="BigQuery · Vega-Lite",
-         title="토스페이 도입 성과 측정과 결제 모니터링",
-         rows=[("목적", "간편결제 수단 추가에 따른 PG 수수료 절감 효과 측정과 결제수단 전환 추이 상시 관찰"),
-               ("결과", "대체 결제수단 요율 비교로 도입 36일 절감액을 추정하고 전체 가중 요율 변화로 교차 검증, 일별 자동 갱신 모니터링 대시보드 운영")],
-         imgs=[("notion_2026_tosspay_report.png", "토스페이 도입 성과 리포트: 36일 누적 절감액과 월 절감 페이스"),
-               ("notion_2026_tosspay_monitor.png", "토스페이 결제 모니터링: 결제수단별 거래건수와 토스페이 비중 추이")]),
 
     # Visualization ────────────────────────────
     dict(id="viz-draw", sec="viz", part="성과 추적", year="2026", tool="GA4 · Vega-Lite · Cloud Run",
@@ -236,6 +230,11 @@ CARDS = [
          imgs=[("notion_2026_draw_dashboard.png", "럭키드로우 이벤트 대시보드: 방문·참여·응모 유저수와 유입 경로"),
                ("notion_2026_draw_logging.png", "드로우 이벤트 GA 로깅 검증: 이벤트 9종 설계값 대조"),
                ("notion_2026_draw_taxonomy.png", "드로우 이벤트 GA 텍소노미 설계안")]),
+    dict(id="viz-tosspay", sec="viz", part="성과 추적", year="2026", tool="BigQuery · Vega-Lite · Cloud Run",
+         title="토스페이 결제 모니터링 대시보드",
+         rows=[("목적", "토스페이 도입 후 결제수단 전환 추이와 간편결제 내 비중 목표 달성의 상시 관찰"),
+               ("결과", "결제수단별 거래건수·토스페이 비중·결제자 구성·직전 결제수단을 일별 자동 갱신 대시보드로 제공")],
+         imgs=[("notion_2026_tosspay_monitor.png", "토스페이 결제 모니터링: 결제수단별 거래건수와 토스페이 비중 추이")]),
     dict(id="viz-v1a", sec="viz", part="성과 추적", year="2025", tool="Looker Studio",
          title="W-1(저번주) 성과예측 대시보드",
          rows=[("목적", "전체 주차장의 심층적 일정별 성과를 지표로 수치 확인"),
